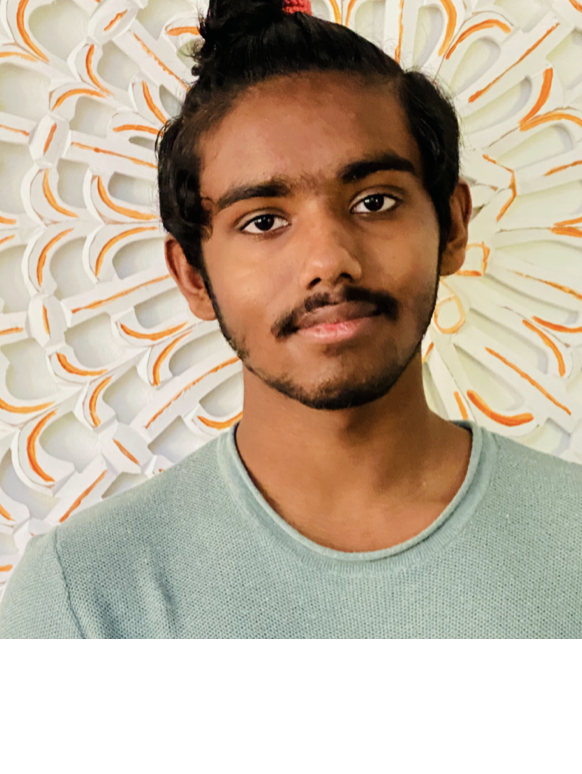
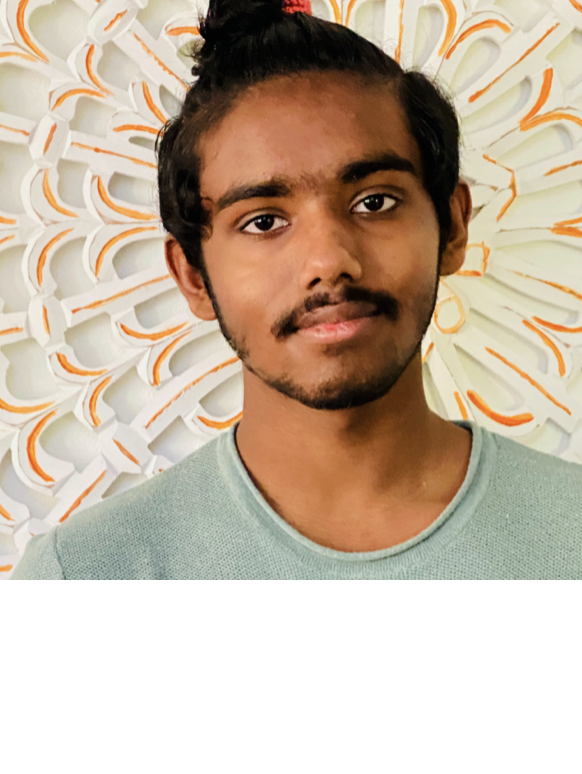
changed image to try to fix

Changed region(s): [[0.0, 0.7442, 1.0, 0.8372]]

diff --git a/src/pages/AboutUs.js b/src/pages/AboutUs.js
@@ -74,7 +74,7 @@ export class About extends React.Component {
           <Box width="100%" height="100%" mt={"50px"} justifyContent="center">
             <Grid templateColumns="repeat(3, 1fr)" gap={15} marginLeft="100px">
               <Box w="75%">
-                <Box maxW="sm" borderWidth="1px" rounded="lg" overflow="hidden">
+                <Box maxW="sm" borderWidth="1px" rounded="lg">
                   <Image src={adityaverma} alt="Aditya Verma" overflow="hidden" />
                   <Box
                     px="6"
